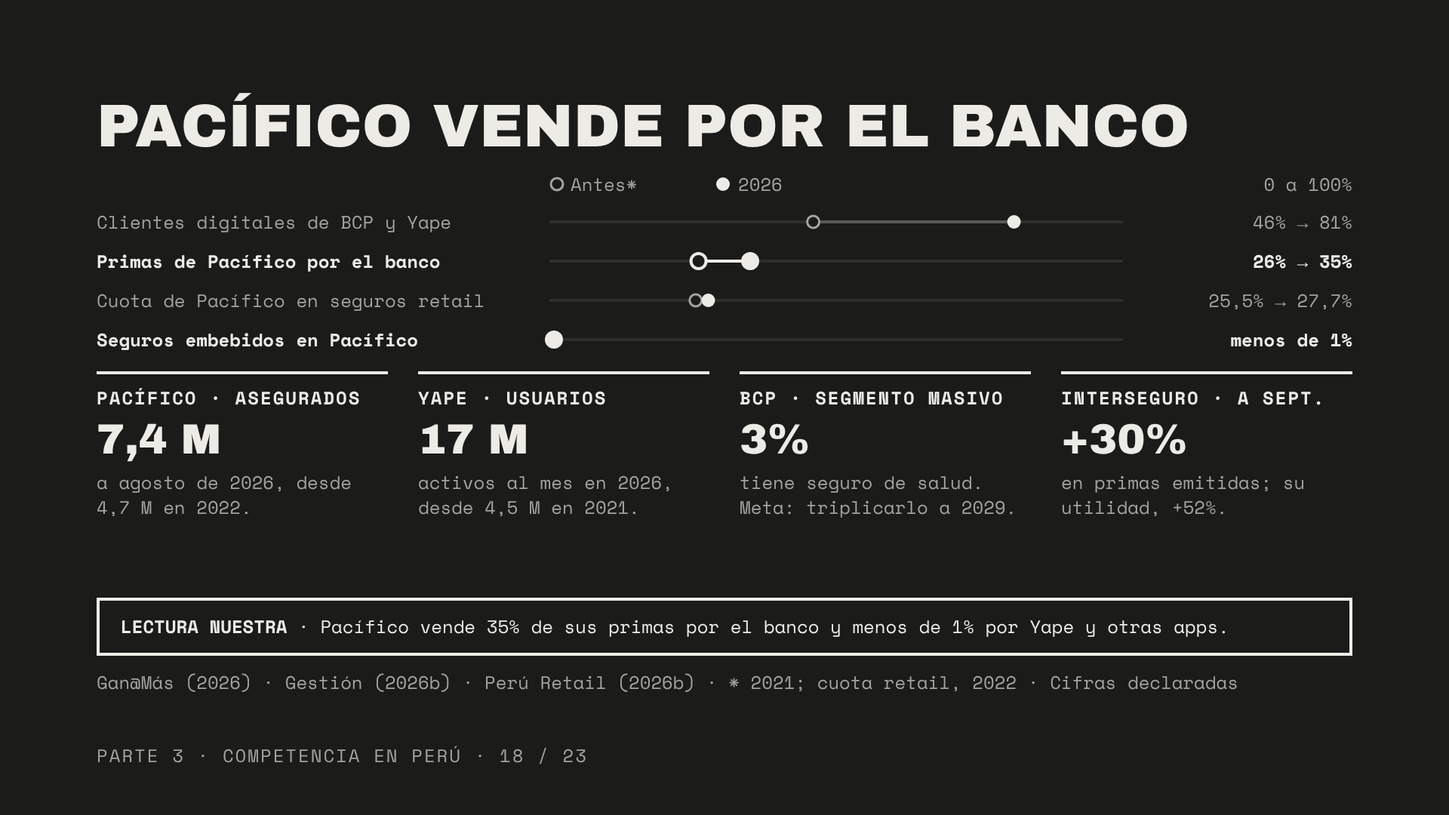
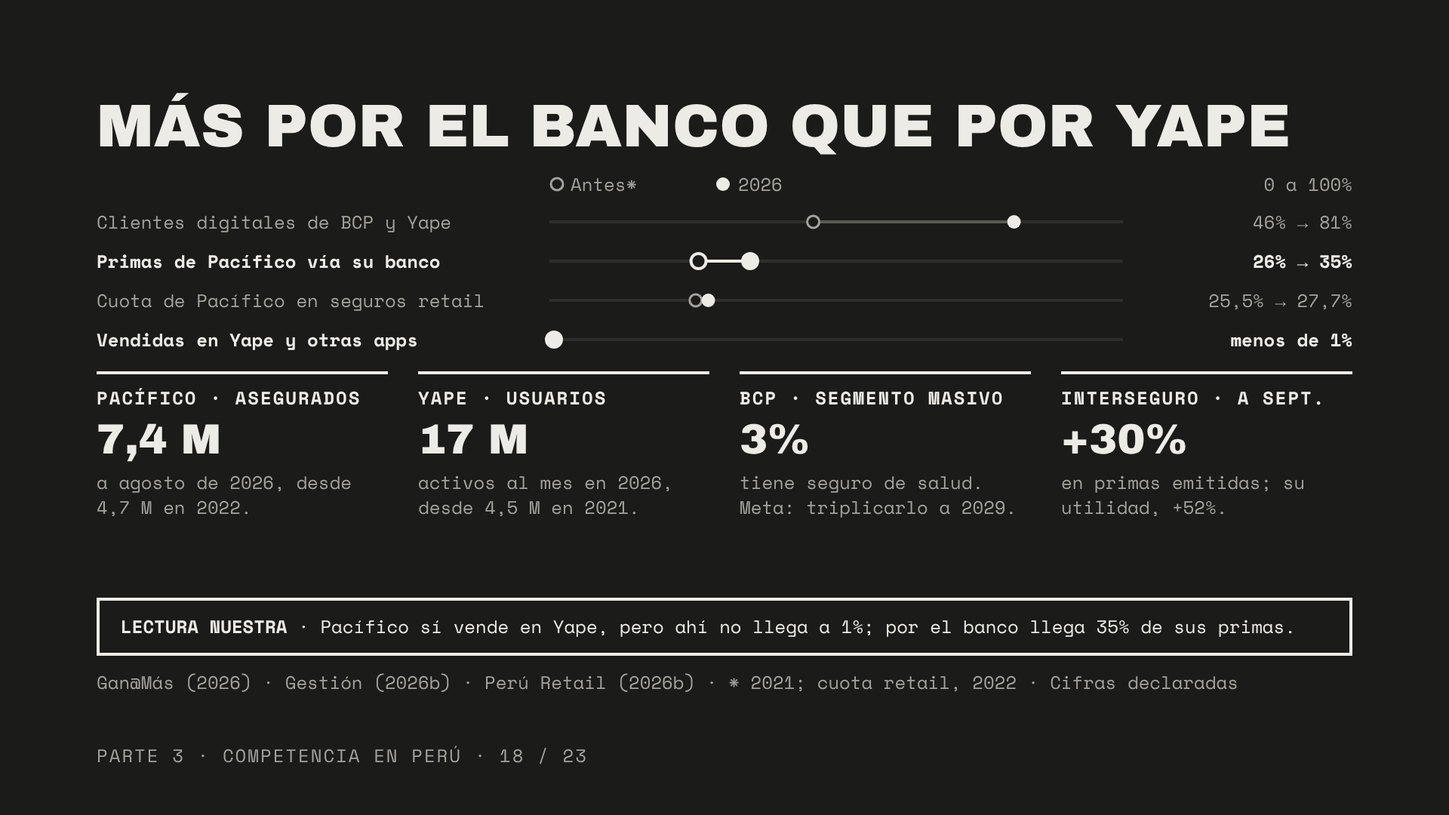
Rehace la matriz conductual como tabla y aclara Yape frente al banco
Claude-Session: https://claude.ai/code/session_0172Gzwbb2YLHGW14wEzAdeb

diff --git a/reports/presentacion-sudamerica/monocromo/project/slides/anexo-conducta.html b/reports/presentacion-sudamerica/monocromo/project/slides/anexo-conducta.html
@@ -1,107 +1,19 @@
 <section id="anexo-conducta" data-transition="fade">
 <h2 class="t">Primero la familia</h2>
 <p class="sub">Matriz conductual: nueve hábitos financieros de Perú frente a los países del benchmark.</p>
-<div style="display:grid;grid-template-columns:520px repeat(8,1fr);font-size:24px;line-height:1.3">
-<div style="padding:6px 0;border-bottom:2px solid #3A3A36;border-bottom:4px solid #ECEBE6;color:#A3A29C">% de adultos, 2024</div>
-<div style="padding:6px 0;border-bottom:2px solid #3A3A36;text-align:right;padding-right:18px;background:#2A2A27;font-weight:700;color:#ECEBE6;border-bottom:4px solid #ECEBE6;">Perú</div>
-<div style="padding:6px 0;border-bottom:2px solid #3A3A36;text-align:right;padding-right:18px;color:#A3A29C;border-bottom:4px solid #ECEBE6;">Ecuador</div>
-<div style="padding:6px 0;border-bottom:2px solid #3A3A36;text-align:right;padding-right:18px;color:#A3A29C;border-bottom:4px solid #ECEBE6;">México</div>
-<div style="padding:6px 0;border-bottom:2px solid #3A3A36;text-align:right;padding-right:18px;color:#A3A29C;border-bottom:4px solid #ECEBE6;">Colombia</div>
-<div style="padding:6px 0;border-bottom:2px solid #3A3A36;text-align:right;padding-right:18px;color:#A3A29C;border-bottom:4px solid #ECEBE6;">Bolivia</div>
-<div style="padding:6px 0;border-bottom:2px solid #3A3A36;text-align:right;padding-right:18px;color:#A3A29C;border-bottom:4px solid #ECEBE6;">Paraguay</div>
-<div style="padding:6px 0;border-bottom:2px solid #3A3A36;text-align:right;padding-right:18px;color:#A3A29C;border-bottom:4px solid #ECEBE6;">Brasil</div>
-<div style="padding:6px 0;border-bottom:2px solid #3A3A36;text-align:right;padding-right:18px;color:#A3A29C;border-bottom:4px solid #ECEBE6;">Turquía</div>
-<div style="padding:6px 0;border-bottom:2px solid #3A3A36;color:#A3A29C;">Ahorró en el último año</div>
-<div style="padding:6px 0;border-bottom:2px solid #3A3A36;text-align:right;padding-right:18px;background:#2A2A27;font-weight:700;color:#ECEBE6;">44,0</div>
-<div style="padding:6px 0;border-bottom:2px solid #3A3A36;text-align:right;padding-right:18px;">36,4</div>
-<div style="padding:6px 0;border-bottom:2px solid #3A3A36;text-align:right;padding-right:18px;">48,3</div>
-<div style="padding:6px 0;border-bottom:2px solid #3A3A36;text-align:right;padding-right:18px;">34,7</div>
-<div style="padding:6px 0;border-bottom:2px solid #3A3A36;text-align:right;padding-right:18px;">51,1</div>
-<div style="padding:6px 0;border-bottom:2px solid #3A3A36;text-align:right;padding-right:18px;">37,5</div>
-<div style="padding:6px 0;border-bottom:2px solid #3A3A36;text-align:right;padding-right:18px;">46,7</div>
-<div style="padding:6px 0;border-bottom:2px solid #3A3A36;text-align:right;padding-right:18px;">41,2</div>
-<div style="padding:6px 0;border-bottom:2px solid #3A3A36;color:#A3A29C;">Ahorró en banco o billetera</div>
-<div style="padding:6px 0;border-bottom:2px solid #3A3A36;text-align:right;padding-right:18px;background:#2A2A27;font-weight:700;color:#ECEBE6;">31,4</div>
-<div style="padding:6px 0;border-bottom:2px solid #3A3A36;text-align:right;padding-right:18px;">22,3</div>
-<div style="padding:6px 0;border-bottom:2px solid #3A3A36;text-align:right;padding-right:18px;">17,3</div>
-<div style="padding:6px 0;border-bottom:2px solid #3A3A36;text-align:right;padding-right:18px;">25,0</div>
-<div style="padding:6px 0;border-bottom:2px solid #3A3A36;text-align:right;padding-right:18px;">26,3</div>
-<div style="padding:6px 0;border-bottom:2px solid #3A3A36;text-align:right;padding-right:18px;">19,6</div>
-<div style="padding:6px 0;border-bottom:2px solid #3A3A36;text-align:right;padding-right:18px;">38,6</div>
-<div style="padding:6px 0;border-bottom:2px solid #3A3A36;text-align:right;padding-right:18px;">27,9</div>
-<div style="padding:6px 0;border-bottom:2px solid #3A3A36;color:#A3A29C;">Pidió prestado a familia o amigos</div>
-<div style="padding:6px 0;border-bottom:2px solid #3A3A36;text-align:right;padding-right:18px;background:#2A2A27;font-weight:700;color:#ECEBE6;">20,8</div>
-<div style="padding:6px 0;border-bottom:2px solid #3A3A36;text-align:right;padding-right:18px;">18,6</div>
-<div style="padding:6px 0;border-bottom:2px solid #3A3A36;text-align:right;padding-right:18px;">17,1</div>
-<div style="padding:6px 0;border-bottom:2px solid #3A3A36;text-align:right;padding-right:18px;">19,4</div>
-<div style="padding:6px 0;border-bottom:2px solid #3A3A36;text-align:right;padding-right:18px;">20,8</div>
-<div style="padding:6px 0;border-bottom:2px solid #3A3A36;text-align:right;padding-right:18px;">23,0</div>
-<div style="padding:6px 0;border-bottom:2px solid #3A3A36;text-align:right;padding-right:18px;">15,6</div>
-<div style="padding:6px 0;border-bottom:2px solid #3A3A36;text-align:right;padding-right:18px;">29,5</div>
-<div style="padding:6px 0;border-bottom:2px solid #3A3A36;color:#A3A29C;">Pidió prestado para salud</div>
-<div style="padding:6px 0;border-bottom:2px solid #3A3A36;text-align:right;padding-right:18px;background:#2A2A27;font-weight:700;color:#ECEBE6;">16,3</div>
-<div style="padding:6px 0;border-bottom:2px solid #3A3A36;text-align:right;padding-right:18px;">17,7</div>
-<div style="padding:6px 0;border-bottom:2px solid #3A3A36;text-align:right;padding-right:18px;">16,1</div>
-<div style="padding:6px 0;border-bottom:2px solid #3A3A36;text-align:right;padding-right:18px;">14,7</div>
-<div style="padding:6px 0;border-bottom:2px solid #3A3A36;text-align:right;padding-right:18px;">14,7</div>
-<div style="padding:6px 0;border-bottom:2px solid #3A3A36;text-align:right;padding-right:18px;">16,8</div>
-<div style="padding:6px 0;border-bottom:2px solid #3A3A36;text-align:right;padding-right:18px;">12,6</div>
-<div style="padding:6px 0;border-bottom:2px solid #3A3A36;text-align:right;padding-right:18px;">3,9</div>
-<div style="padding:6px 0;border-bottom:2px solid #3A3A36;font-weight:700;color:#ECEBE6;">→ Emergencia: familia o amigos</div>
-<div style="padding:6px 0;border-bottom:2px solid #3A3A36;text-align:right;padding-right:18px;background:#2A2A27;font-weight:700;color:#ECEBE6;">39,4</div>
-<div style="padding:6px 0;border-bottom:2px solid #3A3A36;text-align:right;padding-right:18px;color:#ECEBE6;">43,0</div>
-<div style="padding:6px 0;border-bottom:2px solid #3A3A36;text-align:right;padding-right:18px;color:#ECEBE6;">43,7</div>
-<div style="padding:6px 0;border-bottom:2px solid #3A3A36;text-align:right;padding-right:18px;color:#ECEBE6;">45,1</div>
-<div style="padding:6px 0;border-bottom:2px solid #3A3A36;text-align:right;padding-right:18px;color:#ECEBE6;">28,1</div>
-<div style="padding:6px 0;border-bottom:2px solid #3A3A36;text-align:right;padding-right:18px;color:#ECEBE6;">28,8</div>
-<div style="padding:6px 0;border-bottom:2px solid #3A3A36;text-align:right;padding-right:18px;color:#ECEBE6;">26,2</div>
-<div style="padding:6px 0;border-bottom:2px solid #3A3A36;text-align:right;padding-right:18px;color:#ECEBE6;">41,7</div>
-<div style="padding:6px 0;border-bottom:2px solid #3A3A36;color:#A3A29C;">Emergencia: sus ahorros</div>
-<div style="padding:6px 0;border-bottom:2px solid #3A3A36;text-align:right;padding-right:18px;background:#2A2A27;font-weight:700;color:#ECEBE6;">17,8</div>
-<div style="padding:6px 0;border-bottom:2px solid #3A3A36;text-align:right;padding-right:18px;">19,3</div>
-<div style="padding:6px 0;border-bottom:2px solid #3A3A36;text-align:right;padding-right:18px;">15,1</div>
-<div style="padding:6px 0;border-bottom:2px solid #3A3A36;text-align:right;padding-right:18px;">11,7</div>
-<div style="padding:6px 0;border-bottom:2px solid #3A3A36;text-align:right;padding-right:18px;">24,8</div>
-<div style="padding:6px 0;border-bottom:2px solid #3A3A36;text-align:right;padding-right:18px;">6,7</div>
-<div style="padding:6px 0;border-bottom:2px solid #3A3A36;text-align:right;padding-right:18px;">15,7</div>
-<div style="padding:6px 0;border-bottom:2px solid #3A3A36;text-align:right;padding-right:18px;">22,5</div>
-<div style="padding:6px 0;border-bottom:2px solid #3A3A36;color:#A3A29C;">Le preocupa más: gastos médicos</div>
-<div style="padding:6px 0;border-bottom:2px solid #3A3A36;text-align:right;padding-right:18px;background:#2A2A27;font-weight:700;color:#ECEBE6;">27,2</div>
-<div style="padding:6px 0;border-bottom:2px solid #3A3A36;text-align:right;padding-right:18px;">30,3</div>
-<div style="padding:6px 0;border-bottom:2px solid #3A3A36;text-align:right;padding-right:18px;">35,0</div>
-<div style="padding:6px 0;border-bottom:2px solid #3A3A36;text-align:right;padding-right:18px;">21,3</div>
-<div style="padding:6px 0;border-bottom:2px solid #3A3A36;text-align:right;padding-right:18px;">35,8</div>
-<div style="padding:6px 0;border-bottom:2px solid #3A3A36;text-align:right;padding-right:18px;">41,9</div>
-<div style="padding:6px 0;border-bottom:2px solid #3A3A36;text-align:right;padding-right:18px;">31,3</div>
-<div style="padding:6px 0;border-bottom:2px solid #3A3A36;text-align:right;padding-right:18px;">31,3</div>
-<div style="padding:6px 0;border-bottom:2px solid #3A3A36;color:#A3A29C;">Le preocupa más: la vejez</div>
-<div style="padding:6px 0;border-bottom:2px solid #3A3A36;text-align:right;padding-right:18px;background:#2A2A27;font-weight:700;color:#ECEBE6;">18,5</div>
-<div style="padding:6px 0;border-bottom:2px solid #3A3A36;text-align:right;padding-right:18px;">21,4</div>
-<div style="padding:6px 0;border-bottom:2px solid #3A3A36;text-align:right;padding-right:18px;">16,1</div>
-<div style="padding:6px 0;border-bottom:2px solid #3A3A36;text-align:right;padding-right:18px;">19,6</div>
-<div style="padding:6px 0;border-bottom:2px solid #3A3A36;text-align:right;padding-right:18px;">14,2</div>
-<div style="padding:6px 0;border-bottom:2px solid #3A3A36;text-align:right;padding-right:18px;">7,9</div>
-<div style="padding:6px 0;border-bottom:2px solid #3A3A36;text-align:right;padding-right:18px;">19,5</div>
-<div style="padding:6px 0;border-bottom:2px solid #3A3A36;text-align:right;padding-right:18px;">22,2</div>
-<div style="padding:6px 0;border-bottom:2px solid #3A3A36;font-weight:700;color:#ECEBE6;">→ Paga con regularidad un seguro</div>
-<div style="padding:6px 0;border-bottom:2px solid #3A3A36;text-align:right;padding-right:18px;background:#2A2A27;font-weight:700;color:#ECEBE6;">10,2</div>
-<div style="padding:6px 0;border-bottom:2px solid #3A3A36;text-align:right;padding-right:18px;color:#ECEBE6;">5,0</div>
-<div style="padding:6px 0;border-bottom:2px solid #3A3A36;text-align:right;padding-right:18px;color:#ECEBE6;">7,9</div>
-<div style="padding:6px 0;border-bottom:2px solid #3A3A36;text-align:right;padding-right:18px;color:#ECEBE6;">4,4</div>
-<div style="padding:6px 0;border-bottom:2px solid #3A3A36;text-align:right;padding-right:18px;color:#ECEBE6;">6,9</div>
-<div style="padding:6px 0;border-bottom:2px solid #3A3A36;text-align:right;padding-right:18px;color:#ECEBE6;">8,0</div>
-<div style="padding:6px 0;border-bottom:2px solid #3A3A36;text-align:right;padding-right:18px;color:#ECEBE6;">13,9</div>
-<div style="padding:6px 0;border-bottom:2px solid #3A3A36;text-align:right;padding-right:18px;color:#ECEBE6;">14,2</div>
-<div style="padding:6px 0;border-bottom:2px solid #3A3A36;border-bottom:none;color:#ECEBE6;font-weight:700">Distancia a Perú</div>
-<div style="padding:6px 0;border-bottom:2px solid #3A3A36;text-align:right;padding-right:18px;background:#2A2A27;font-weight:700;color:#ECEBE6;border-bottom:none">0</div>
-<div style="padding:6px 0;border-bottom:2px solid #3A3A36;text-align:right;padding-right:18px;border-bottom:none">0,50</div>
-<div style="padding:6px 0;border-bottom:2px solid #3A3A36;text-align:right;padding-right:18px;border-bottom:none">0,56</div>
-<div style="padding:6px 0;border-bottom:2px solid #3A3A36;text-align:right;padding-right:18px;border-bottom:none">0,65</div>
-<div style="padding:6px 0;border-bottom:2px solid #3A3A36;text-align:right;padding-right:18px;border-bottom:none">0,80</div>
-<div style="padding:6px 0;border-bottom:2px solid #3A3A36;text-align:right;padding-right:18px;border-bottom:none">1,20</div>
-<div style="padding:6px 0;border-bottom:2px solid #3A3A36;text-align:right;padding-right:18px;border-bottom:none">0,70</div>
-<div style="padding:6px 0;border-bottom:2px solid #3A3A36;text-align:right;padding-right:18px;border-bottom:none">0,74</div>
-</div>
+<table class="tbl" style="border-collapse:collapse">
+<tr><th style="width:31%;text-align:left;color:#A3A29C;font-weight:400;border-bottom:4px solid #ECEBE6;padding:6px 0">% de adultos, 2024</th><th style="width:9%;background:#2A2A27;font-weight:700;color:#ECEBE6;text-align:right;border-bottom:4px solid #ECEBE6;padding:6px 14px 6px 0">Perú</th><th style="width:8.6%;text-align:right;color:#A3A29C;font-weight:400;border-bottom:4px solid #ECEBE6;padding:6px 14px 6px 0">Ecuador</th><th style="width:8.6%;text-align:right;color:#A3A29C;font-weight:400;border-bottom:4px solid #ECEBE6;padding:6px 14px 6px 0">México</th><th style="width:8.6%;text-align:right;color:#A3A29C;font-weight:400;border-bottom:4px solid #ECEBE6;padding:6px 14px 6px 0">Colombia</th><th style="width:8.6%;text-align:right;color:#A3A29C;font-weight:400;border-bottom:4px solid #ECEBE6;padding:6px 14px 6px 0">Bolivia</th><th style="width:8.6%;text-align:right;color:#A3A29C;font-weight:400;border-bottom:4px solid #ECEBE6;padding:6px 14px 6px 0">Paraguay</th><th style="width:8.6%;text-align:right;color:#A3A29C;font-weight:400;border-bottom:4px solid #ECEBE6;padding:6px 14px 6px 0">Brasil</th><th style="width:8.6%;text-align:right;color:#A3A29C;font-weight:400;border-bottom:4px solid #ECEBE6;padding:6px 14px 6px 0">Turquía</th></tr>
+<tr><td style="border-bottom:2px solid #3A3A36;padding:6px 14px 6px 0;color:#A3A29C;">Ahorró en el último año</td><td style="border-bottom:2px solid #3A3A36;padding:6px 14px 6px 0;background:#2A2A27;font-weight:700;color:#ECEBE6;text-align:right;">44,0</td><td style="border-bottom:2px solid #3A3A36;padding:6px 14px 6px 0;text-align:right;">36,4</td><td style="border-bottom:2px solid #3A3A36;padding:6px 14px 6px 0;text-align:right;">48,3</td><td style="border-bottom:2px solid #3A3A36;padding:6px 14px 6px 0;text-align:right;">34,7</td><td style="border-bottom:2px solid #3A3A36;padding:6px 14px 6px 0;text-align:right;">51,1</td><td style="border-bottom:2px solid #3A3A36;padding:6px 14px 6px 0;text-align:right;">37,5</td><td style="border-bottom:2px solid #3A3A36;padding:6px 14px 6px 0;text-align:right;">46,7</td><td style="border-bottom:2px solid #3A3A36;padding:6px 14px 6px 0;text-align:right;">41,2</td></tr>
+<tr><td style="border-bottom:2px solid #3A3A36;padding:6px 14px 6px 0;color:#A3A29C;">Ahorró en banco o billetera</td><td style="border-bottom:2px solid #3A3A36;padding:6px 14px 6px 0;background:#2A2A27;font-weight:700;color:#ECEBE6;text-align:right;">31,4</td><td style="border-bottom:2px solid #3A3A36;padding:6px 14px 6px 0;text-align:right;">22,3</td><td style="border-bottom:2px solid #3A3A36;padding:6px 14px 6px 0;text-align:right;">17,3</td><td style="border-bottom:2px solid #3A3A36;padding:6px 14px 6px 0;text-align:right;">25,0</td><td style="border-bottom:2px solid #3A3A36;padding:6px 14px 6px 0;text-align:right;">26,3</td><td style="border-bottom:2px solid #3A3A36;padding:6px 14px 6px 0;text-align:right;">19,6</td><td style="border-bottom:2px solid #3A3A36;padding:6px 14px 6px 0;text-align:right;">38,6</td><td style="border-bottom:2px solid #3A3A36;padding:6px 14px 6px 0;text-align:right;">27,9</td></tr>
+<tr><td style="border-bottom:2px solid #3A3A36;padding:6px 14px 6px 0;color:#A3A29C;">Pidió prestado a familia o amigos</td><td style="border-bottom:2px solid #3A3A36;padding:6px 14px 6px 0;background:#2A2A27;font-weight:700;color:#ECEBE6;text-align:right;">20,8</td><td style="border-bottom:2px solid #3A3A36;padding:6px 14px 6px 0;text-align:right;">18,6</td><td style="border-bottom:2px solid #3A3A36;padding:6px 14px 6px 0;text-align:right;">17,1</td><td style="border-bottom:2px solid #3A3A36;padding:6px 14px 6px 0;text-align:right;">19,4</td><td style="border-bottom:2px solid #3A3A36;padding:6px 14px 6px 0;text-align:right;">20,8</td><td style="border-bottom:2px solid #3A3A36;padding:6px 14px 6px 0;text-align:right;">23,0</td><td style="border-bottom:2px solid #3A3A36;padding:6px 14px 6px 0;text-align:right;">15,6</td><td style="border-bottom:2px solid #3A3A36;padding:6px 14px 6px 0;text-align:right;">29,5</td></tr>
+<tr><td style="border-bottom:2px solid #3A3A36;padding:6px 14px 6px 0;color:#A3A29C;">Pidió prestado para salud</td><td style="border-bottom:2px solid #3A3A36;padding:6px 14px 6px 0;background:#2A2A27;font-weight:700;color:#ECEBE6;text-align:right;">16,3</td><td style="border-bottom:2px solid #3A3A36;padding:6px 14px 6px 0;text-align:right;">17,7</td><td style="border-bottom:2px solid #3A3A36;padding:6px 14px 6px 0;text-align:right;">16,1</td><td style="border-bottom:2px solid #3A3A36;padding:6px 14px 6px 0;text-align:right;">14,7</td><td style="border-bottom:2px solid #3A3A36;padding:6px 14px 6px 0;text-align:right;">14,7</td><td style="border-bottom:2px solid #3A3A36;padding:6px 14px 6px 0;text-align:right;">16,8</td><td style="border-bottom:2px solid #3A3A36;padding:6px 14px 6px 0;text-align:right;">12,6</td><td style="border-bottom:2px solid #3A3A36;padding:6px 14px 6px 0;text-align:right;">3,9</td></tr>
+<tr><td style="border-bottom:2px solid #3A3A36;padding:6px 14px 6px 0;color:#ECEBE6;font-weight:700;">→ Emergencia: familia o amigos</td><td style="border-bottom:2px solid #3A3A36;padding:6px 14px 6px 0;background:#2A2A27;font-weight:700;color:#ECEBE6;text-align:right;">39,4</td><td style="border-bottom:2px solid #3A3A36;padding:6px 14px 6px 0;text-align:right;color:#ECEBE6;">43,0</td><td style="border-bottom:2px solid #3A3A36;padding:6px 14px 6px 0;text-align:right;color:#ECEBE6;">43,7</td><td style="border-bottom:2px solid #3A3A36;padding:6px 14px 6px 0;text-align:right;color:#ECEBE6;">45,1</td><td style="border-bottom:2px solid #3A3A36;padding:6px 14px 6px 0;text-align:right;color:#ECEBE6;">28,1</td><td style="border-bottom:2px solid #3A3A36;padding:6px 14px 6px 0;text-align:right;color:#ECEBE6;">28,8</td><td style="border-bottom:2px solid #3A3A36;padding:6px 14px 6px 0;text-align:right;color:#ECEBE6;">26,2</td><td style="border-bottom:2px solid #3A3A36;padding:6px 14px 6px 0;text-align:right;color:#ECEBE6;">41,7</td></tr>
+<tr><td style="border-bottom:2px solid #3A3A36;padding:6px 14px 6px 0;color:#A3A29C;">Emergencia: sus ahorros</td><td style="border-bottom:2px solid #3A3A36;padding:6px 14px 6px 0;background:#2A2A27;font-weight:700;color:#ECEBE6;text-align:right;">17,8</td><td style="border-bottom:2px solid #3A3A36;padding:6px 14px 6px 0;text-align:right;">19,3</td><td style="border-bottom:2px solid #3A3A36;padding:6px 14px 6px 0;text-align:right;">15,1</td><td style="border-bottom:2px solid #3A3A36;padding:6px 14px 6px 0;text-align:right;">11,7</td><td style="border-bottom:2px solid #3A3A36;padding:6px 14px 6px 0;text-align:right;">24,8</td><td style="border-bottom:2px solid #3A3A36;padding:6px 14px 6px 0;text-align:right;">6,7</td><td style="border-bottom:2px solid #3A3A36;padding:6px 14px 6px 0;text-align:right;">15,7</td><td style="border-bottom:2px solid #3A3A36;padding:6px 14px 6px 0;text-align:right;">22,5</td></tr>
+<tr><td style="border-bottom:2px solid #3A3A36;padding:6px 14px 6px 0;color:#A3A29C;">Le preocupa más: gastos médicos</td><td style="border-bottom:2px solid #3A3A36;padding:6px 14px 6px 0;background:#2A2A27;font-weight:700;color:#ECEBE6;text-align:right;">27,2</td><td style="border-bottom:2px solid #3A3A36;padding:6px 14px 6px 0;text-align:right;">30,3</td><td style="border-bottom:2px solid #3A3A36;padding:6px 14px 6px 0;text-align:right;">35,0</td><td style="border-bottom:2px solid #3A3A36;padding:6px 14px 6px 0;text-align:right;">21,3</td><td style="border-bottom:2px solid #3A3A36;padding:6px 14px 6px 0;text-align:right;">35,8</td><td style="border-bottom:2px solid #3A3A36;padding:6px 14px 6px 0;text-align:right;">41,9</td><td style="border-bottom:2px solid #3A3A36;padding:6px 14px 6px 0;text-align:right;">31,3</td><td style="border-bottom:2px solid #3A3A36;padding:6px 14px 6px 0;text-align:right;">31,3</td></tr>
+<tr><td style="border-bottom:2px solid #3A3A36;padding:6px 14px 6px 0;color:#A3A29C;">Le preocupa más: la vejez</td><td style="border-bottom:2px solid #3A3A36;padding:6px 14px 6px 0;background:#2A2A27;font-weight:700;color:#ECEBE6;text-align:right;">18,5</td><td style="border-bottom:2px solid #3A3A36;padding:6px 14px 6px 0;text-align:right;">21,4</td><td style="border-bottom:2px solid #3A3A36;padding:6px 14px 6px 0;text-align:right;">16,1</td><td style="border-bottom:2px solid #3A3A36;padding:6px 14px 6px 0;text-align:right;">19,6</td><td style="border-bottom:2px solid #3A3A36;padding:6px 14px 6px 0;text-align:right;">14,2</td><td style="border-bottom:2px solid #3A3A36;padding:6px 14px 6px 0;text-align:right;">7,9</td><td style="border-bottom:2px solid #3A3A36;padding:6px 14px 6px 0;text-align:right;">19,5</td><td style="border-bottom:2px solid #3A3A36;padding:6px 14px 6px 0;text-align:right;">22,2</td></tr>
+<tr><td style="border-bottom:2px solid #3A3A36;padding:6px 14px 6px 0;color:#ECEBE6;font-weight:700;">→ Paga con regularidad un seguro</td><td style="border-bottom:2px solid #3A3A36;padding:6px 14px 6px 0;background:#2A2A27;font-weight:700;color:#ECEBE6;text-align:right;">10,2</td><td style="border-bottom:2px solid #3A3A36;padding:6px 14px 6px 0;text-align:right;color:#ECEBE6;">5,0</td><td style="border-bottom:2px solid #3A3A36;padding:6px 14px 6px 0;text-align:right;color:#ECEBE6;">7,9</td><td style="border-bottom:2px solid #3A3A36;padding:6px 14px 6px 0;text-align:right;color:#ECEBE6;">4,4</td><td style="border-bottom:2px solid #3A3A36;padding:6px 14px 6px 0;text-align:right;color:#ECEBE6;">6,9</td><td style="border-bottom:2px solid #3A3A36;padding:6px 14px 6px 0;text-align:right;color:#ECEBE6;">8,0</td><td style="border-bottom:2px solid #3A3A36;padding:6px 14px 6px 0;text-align:right;color:#ECEBE6;">13,9</td><td style="border-bottom:2px solid #3A3A36;padding:6px 14px 6px 0;text-align:right;color:#ECEBE6;">14,2</td></tr>
+<tr><td style="border-bottom:2px solid #3A3A36;padding:6px 14px 6px 0;color:#ECEBE6;font-weight:700;">Distancia a Perú (0 = igual)</td><td style="border-bottom:2px solid #3A3A36;padding:6px 14px 6px 0;background:#2A2A27;font-weight:700;color:#ECEBE6;text-align:right;">0</td><td style="border-bottom:2px solid #3A3A36;padding:6px 14px 6px 0;text-align:right;color:#ECEBE6;">0,50</td><td style="border-bottom:2px solid #3A3A36;padding:6px 14px 6px 0;text-align:right;color:#ECEBE6;">0,56</td><td style="border-bottom:2px solid #3A3A36;padding:6px 14px 6px 0;text-align:right;color:#ECEBE6;">0,65</td><td style="border-bottom:2px solid #3A3A36;padding:6px 14px 6px 0;text-align:right;color:#ECEBE6;">0,80</td><td style="border-bottom:2px solid #3A3A36;padding:6px 14px 6px 0;text-align:right;color:#ECEBE6;">1,20</td><td style="border-bottom:2px solid #3A3A36;padding:6px 14px 6px 0;text-align:right;color:#ECEBE6;">0,70</td><td style="border-bottom:2px solid #3A3A36;padding:6px 14px 6px 0;text-align:right;color:#ECEBE6;">0,74</td></tr>
+</table>
 <div class="spacer"></div>
 <p class="src">Banco Mundial (2025), Global Findex 2025 · Emergencia: principal fuente de dinero para cubrirla en 30 días · Distancia: cálculo propio</p>
 <p class="foot">Anexo · Matriz conductual · 22 / 23</p>

diff --git a/reports/presentacion-sudamerica/monocromo/project/slides/p3-grupos.html b/reports/presentacion-sudamerica/monocromo/project/slides/p3-grupos.html
@@ -1,5 +1,5 @@
 <section id="p3-grupos" class="alt" data-transition="fade">
-<h2 class="t">Pacífico vende por el banco</h2>
+<h2 class="t">Más por el banco que por Yape</h2>
 <div class="host" style="width:1664px;height:244px">
 <svg aria-label="Gráfico de pesas: cuatro indicadores de Credicorp y Pacífico, antes y en 2026, en una escala de 0 a 100%" width="1664" height="244" viewBox="0 0 1664 244">
 <circle cx="610" cy="16" r="8" fill="#1B1B19" stroke="#A3A29C" stroke-width="3"/>
@@ -17,9 +17,9 @@
 <p class="lab" style="left:850px;top:1px;width:200px">2026</p>
 <p class="lab" style="left:1390px;top:1px;width:274px;text-align:right">0 a 100%</p>
 <p class="lab" style="left:0px;top:51px;width:560px">Clientes digitales de BCP y Yape</p>
-<p class="labpe" style="left:0px;top:103px;width:560px">Primas de Pacífico por el banco</p>
+<p class="labpe" style="left:0px;top:103px;width:560px">Primas de Pacífico vía su banco</p>
 <p class="lab" style="left:0px;top:155px;width:560px">Cuota de Pacífico en seguros retail</p>
-<p class="labpe" style="left:0px;top:207px;width:560px">Seguros embebidos en Pacífico</p>
+<p class="labpe" style="left:0px;top:207px;width:560px">Vendidas en Yape y otras apps</p>
 <p class="lab" style="left:1390px;top:51px;width:274px;text-align:right">46% → 81%</p>
 <p class="labpe" style="left:1390px;top:103px;width:274px;text-align:right">26% → 35%</p>
 <p class="lab" style="left:1390px;top:155px;width:274px;text-align:right">25,5% → 27,7%</p>
@@ -32,8 +32,8 @@
 <div class="card"><p class="k">Interseguro · a sept.</p><p class="mid">+30%</p><p class="dim">en primas emitidas; su utilidad, +52%.</p></div>
 </div>
 <div class="spacer"></div>
-<div class="strip"><p class="txt"><b>LECTURA NUESTRA</b> · Pacífico vende 35% de sus primas por el banco y menos de 1% por Yape y otras apps.</p></div>
+<div class="strip"><p class="txt"><b>LECTURA NUESTRA</b> · Pacífico sí vende en Yape, pero ahí no llega a 1%; por el banco llega 35% de sus primas.</p></div>
 <p class="src">Gan@Más (2026) · Gestión (2026b) · Perú Retail (2026b) · * 2021; cuota retail, 2022 · Cifras declaradas</p>
 <p class="foot">Parte 3 · Competencia en Perú · 18 / 23</p>
-<aside>Qué decir: los dos grandes grupos financieros ya convierten su base de clientes en primas, pero sobre todo por el banco. El gráfico compara cuatro indicadores de Credicorp antes y en 2026, en una escala de 0 a 100%. Uno: los clientes digitales de BCP y Yape pasaron de 46% en 2021 a 81% en septiembre de 2026; Credicorp define cliente digital como quien hace 70% o más de sus transacciones por canales digitales en los últimos seis meses, y dice que eso redujo 34% el costo de servir al segmento masivo. Dos: la bancaseguros ya aporta 35% de las primas totales de Pacífico, frente a 26% en 2021. Tres: la participación de Pacífico en seguros retail subió de 25,5% a 27,7% entre 2022 y agosto de 2026. Cuatro, el contraste: los seguros embebidos en apps de socios, como Yape, aún no llegan a 1% del portafolio de Pacífico (Gestión, 2026b). Abajo, cuatro cifras. Pacífico pasó de 4,7 a 7,4 millones de asegurados. Yape tiene 17 millones de usuarios activos al mes, desde 4,5 millones en 2021, y hoy monetiza sobre todo con crédito: su cartera casi se cuadruplicó en un año, a S/ 2.300 millones. En el segmento masivo del BCP, solo 3% tiene seguro de salud, y Credicorp apunta a triplicarlo a 2029; Pacífico dice que puede lanzar un producto en 1,5 meses y ofrece atención primaria para la clase media, con unas 60.000 consultas al año. Interseguro, del grupo Intercorp, creció 30% en primas emitidas y 52% en utilidad a septiembre de 2026; IFS no atribuye ese crecimiento al canal digital, pero dice que sigue invirtiendo en soluciones digitales, ciberseguridad e IA generativa, y Plin creció 43% en transacciones. Otras cifras de Credicorp que sirven como contexto: la brecha de protección es amplia, porque solo 2 de cada 7 familias tienen seguro de vida, 1 de cada 4 vehículos está asegurado y 5% de la clase media tiene seguro privado de salud (datos de APESEG citados por Credicorp); su portafolio de innovación aporta cerca de 10% de los ingresos ajustados por riesgo y la meta ilustrativa es 30% en 2031; con agentes de IA busca automatizar entre 40% y 60% de las consultas de clientes; y la banca por WhatsApp de Mibanco sumó 21.000 clientes y 14.700 desembolsos en ocho meses. Todas son cifras y metas declaradas por las empresas, sin evaluación independiente. Lectura nuestra: en Perú, el ecosistema ya vende seguros, pero por el banco y su fuerza de venta, no dentro de la billetera; Yape tiene la escala, falta convertirla en pólizas. Fuentes: Gan@Más (2026), sobre la Actualización Estratégica 2026 de Credicorp; Gestión (2026b); Perú Retail (2026b), sobre los resultados de IFS a septiembre de 2026. Puente: ¿qué dicen quienes usan estas apps?</aside>
+<aside>Qué decir: los dos grandes grupos financieros ya convierten su base de clientes en primas, pero sobre todo por el banco. El gráfico compara cuatro indicadores de Credicorp antes y en 2026, en una escala de 0 a 100%. Uno: los clientes digitales de BCP y Yape pasaron de 46% en 2021 a 81% en septiembre de 2026; Credicorp define cliente digital como quien hace 70% o más de sus transacciones por canales digitales en los últimos seis meses, y dice que eso redujo 34% el costo de servir al segmento masivo. Dos: la bancaseguros ya aporta 35% de las primas totales de Pacífico, frente a 26% en 2021. Tres: la participación de Pacífico en seguros retail subió de 25,5% a 27,7% entre 2022 y agosto de 2026. Cuatro, el contraste: Pacífico sí vende dentro de Yape (un seguro de salud con meta de 30.000 afiliados, SOAT y protección de tarjeta, como vimos en la lámina anterior), pero esos seguros vendidos dentro de apps de socios, los llamados embebidos, aún no llegan a 1% de su portafolio (Gestión, 2026b). Es decir: Yape es un canal real, pero todavía pequeño; el grueso de lo que Pacífico vende fuera de sus propios canales llega por el banco del grupo, con la bancaseguros. Abajo, cuatro cifras. Pacífico pasó de 4,7 a 7,4 millones de asegurados. Yape tiene 17 millones de usuarios activos al mes, desde 4,5 millones en 2021, y hoy monetiza sobre todo con crédito: su cartera casi se cuadruplicó en un año, a S/ 2.300 millones. En el segmento masivo del BCP, solo 3% tiene seguro de salud, y Credicorp apunta a triplicarlo a 2029; Pacífico dice que puede lanzar un producto en 1,5 meses y ofrece atención primaria para la clase media, con unas 60.000 consultas al año. Interseguro, del grupo Intercorp, creció 30% en primas emitidas y 52% en utilidad a septiembre de 2026; IFS no atribuye ese crecimiento al canal digital, pero dice que sigue invirtiendo en soluciones digitales, ciberseguridad e IA generativa, y Plin creció 43% en transacciones. Otras cifras de Credicorp que sirven como contexto: la brecha de protección es amplia, porque solo 2 de cada 7 familias tienen seguro de vida, 1 de cada 4 vehículos está asegurado y 5% de la clase media tiene seguro privado de salud (datos de APESEG citados por Credicorp); su portafolio de innovación aporta cerca de 10% de los ingresos ajustados por riesgo y la meta ilustrativa es 30% en 2031; con agentes de IA busca automatizar entre 40% y 60% de las consultas de clientes; y la banca por WhatsApp de Mibanco sumó 21.000 clientes y 14.700 desembolsos en ocho meses. Todas son cifras y metas declaradas por las empresas, sin evaluación independiente. Lectura nuestra: en Perú, el ecosistema ya vende seguros, pero por el banco y su fuerza de venta, no dentro de la billetera; Yape tiene la escala, falta convertirla en pólizas. Fuentes: Gan@Más (2026), sobre la Actualización Estratégica 2026 de Credicorp; Gestión (2026b); Perú Retail (2026b), sobre los resultados de IFS a septiembre de 2026. Puente: ¿qué dicen quienes usan estas apps?</aside>
 </section>

diff --git a/reports/presentacion-sudamerica/monocromo/project/slides/p2-fracasos.html b/reports/presentacion-sudamerica/monocromo/project/slides/p2-fracasos.html
@@ -3,7 +3,7 @@
 <p class="sub">Lo que falló tenía algo en común: forzar el canal en vez de seguir al cliente.</p>
 <table class="tbl">
 <tr><th style="width:22%;text-align:left">Apuesta</th><th style="width:50%;text-align:left">Qué pasó</th><th style="width:28%;text-align:left">Qué evitar</th></tr>
-<tr><td>Competir con el corredor</td><td>Pier (Brasil) despidió a 39% de su equipo en 2023 y giró al canal de corredores. En Argentina, los productores llamaron «amenaza» a que Mercado Libre vendiera seguros.</td><td>Saltarse al intermediario que el cliente prefiere</td></tr>
+<tr><td>Competir con el corredor</td><td>Pier (Brasil) despidió a 39% de su equipo en 2023 y giró al canal de corredores. En Argentina, los productores asesores (los corredores) llamaron «amenaza» a que Mercado Libre vendiera seguros.</td><td>Saltarse al intermediario que el cliente prefiere</td></tr>
 <tr><td>Bienestar como negocio</td><td>Betterfly, de beneficios y seguros, cerró en cinco países, entre ellos Perú.</td><td>Beneficios que no calzan con la vida de la persona</td></tr>
 <tr><td>El canal propio como fin</td><td>Interseguro (Perú) llegó a su meta digital dos años tarde; sus clientes digitales bajaron de 580 mil a unos 540 mil.</td><td>Medir el éxito por usuarios de la app</td></tr>
 <tr><td>Vender en la billetera sin demanda</td><td>El seguro de vida de DaviPlata (Colombia), desde $33.700 al año, ya no acepta nuevas solicitudes; no explicó por qué.</td><td>Poner el seguro en la billetera sin medir uso ni renovación</td></tr>
@@ -12,5 +12,5 @@
 <div class="spacer"></div>
 <p class="src">Startups.com.br (2023) · Let's Money (2026a) · Forbes Chile (2025) · Forbes Perú (2022, 2025) e Interseguro (2023-2025), citados en RIMAC (2026b) · Saurit Román (2021) · DaviPlata (s. f.) · Banerjee, Duflo y Hornbeck (2014) · Los fracasos rara vez se publican</p>
 <p class="foot">Parte 2 · Lo que no funcionó · 14 / 23</p>
-<aside>Qué decir: para no quedarnos solo con los éxitos, cuatro apuestas que no salieron como se esperaba. Pier, aseguradora digital brasileña nacida para vender directo, despidió a cerca de 39% de su equipo en enero de 2023 y giró hacia el canal de corredores; en 2026 declara punto de equilibrio con unos 200 mil clientes, según cifras de la empresa recogidas por Let's Money. Betterfly, la empresa chilena de beneficios y seguros con premios por hábitos saludables, cerró en cinco países, entre ellos Perú, en marzo de 2025. Interseguro se propuso en 2022 llevar lo digital a cerca de 10% de sus ingresos y lanzó con Betterfly un seguro de vida con premios; en 2023 sus primas cayeron 5,3% con el mercado creciendo 8,1%, llegó a la meta digital en 2024, dos años tarde, y sus clientes digitales bajaron de 580 mil a unos 540 mil; sus primas crecieron 67% en 2025, pero por rentas vitalicias y la venta en Interbank. En India, un experimento que ató un seguro de salud obligatorio al microcrédito hizo que más clientes dejaran el crédito (Banerjee, Duflo y Hornbeck, 2014). Dos casos sudamericanos refuerzan la lectura. En Argentina, cuando Mercado Libre buscó vender seguros, los productores asesores lo calificaron como «una verdadera amenaza para el sector» (Saurit Román, 2021): el intermediario defiende su lugar. En Colombia, el seguro de vida de DaviPlata, vendido dentro de la billetera sin requisitos ni exclusiones desde $33.700 pesos al año, ya no acepta nuevas solicitudes y no publicó por qué (DaviPlata, s. f.): estar en la billetera no garantiza que el producto funcione. Lectura nuestra: lo que falló forzó el canal o el producto en lugar de seguir al cliente. Ojo: los fracasos rara vez se publican, así que la muestra de casos sobrerrepresenta los éxitos. Fuentes: Startups.com.br (2023), 12 de enero; Let's Money (2026a), citado como lo recoge la matriz del equipo; Forbes Chile (2025), 17 de marzo; Forbes Perú (2022, 2025) e Interseguro, memorias 2023-2025, citados en RIMAC (2026b); Saurit Román (2021), Revista Seguros de AAPAS, 17 de febrero; DaviPlata (s. f.), Seguro de Vida DaviPlata; Banerjee, Duflo y Hornbeck (2014), American Economic Review. Puente: antes de pasar a Perú, una síntesis de todo el benchmark.</aside>
+<aside>Qué decir: para no quedarnos solo con los éxitos, cuatro apuestas que no salieron como se esperaba. Pier, aseguradora digital brasileña nacida para vender directo, despidió a cerca de 39% de su equipo en enero de 2023 y giró hacia el canal de corredores; en 2026 declara punto de equilibrio con unos 200 mil clientes, según cifras de la empresa recogidas por Let's Money. Betterfly, la empresa chilena de beneficios y seguros con premios por hábitos saludables, cerró en cinco países, entre ellos Perú, en marzo de 2025. Interseguro se propuso en 2022 llevar lo digital a cerca de 10% de sus ingresos y lanzó con Betterfly un seguro de vida con premios; en 2023 sus primas cayeron 5,3% con el mercado creciendo 8,1%, llegó a la meta digital en 2024, dos años tarde, y sus clientes digitales bajaron de 580 mil a unos 540 mil; sus primas crecieron 67% en 2025, pero por rentas vitalicias y la venta en Interbank. En India, un experimento que ató un seguro de salud obligatorio al microcrédito hizo que más clientes dejaran el crédito (Banerjee, Duflo y Hornbeck, 2014). Dos casos sudamericanos refuerzan la lectura. En Argentina, cuando Mercado Libre buscó vender seguros, los productores asesores de seguros, como se llama en Argentina a los corredores, lo calificaron como «una verdadera amenaza para el sector» (Saurit Román, 2021): el intermediario defiende su lugar. En Colombia, el seguro de vida de DaviPlata, vendido dentro de la billetera sin requisitos ni exclusiones desde $33.700 pesos al año, ya no acepta nuevas solicitudes y no publicó por qué (DaviPlata, s. f.): estar en la billetera no garantiza que el producto funcione. Lectura nuestra: lo que falló forzó el canal o el producto en lugar de seguir al cliente. Ojo: los fracasos rara vez se publican, así que la muestra de casos sobrerrepresenta los éxitos. Fuentes: Startups.com.br (2023), 12 de enero; Let's Money (2026a), citado como lo recoge la matriz del equipo; Forbes Chile (2025), 17 de marzo; Forbes Perú (2022, 2025) e Interseguro, memorias 2023-2025, citados en RIMAC (2026b); Saurit Román (2021), Revista Seguros de AAPAS, 17 de febrero; DaviPlata (s. f.), Seguro de Vida DaviPlata; Banerjee, Duflo y Hornbeck (2014), American Economic Review. Puente: antes de pasar a Perú, una síntesis de todo el benchmark.</aside>
 </section>
